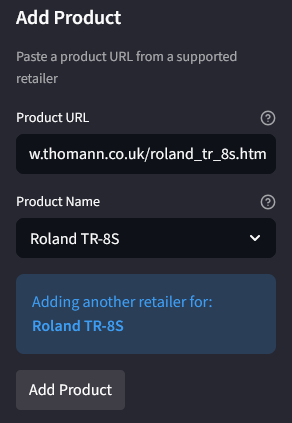
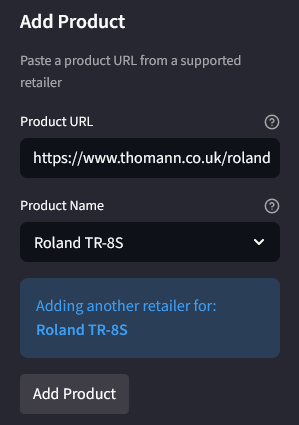
Update screenshot

diff --git a/README.md b/README.md
@@ -40,7 +40,7 @@ Most portfolio scrapers fetch a page, parse some HTML, and dump it to a CSV. Thi
 |---|---|
 | ![New product group](screenshots/add-new-product.png) | ![Add URL to existing product group](screenshots/add-to-existing-product.png) |
 
-
+Products from different retailers are grouped under a shared custom name for comparison. The left screenshot shows adding a new product group; the right shows adding a second retailer to an existing one.
 
 ### Multi-site product comparison
 
